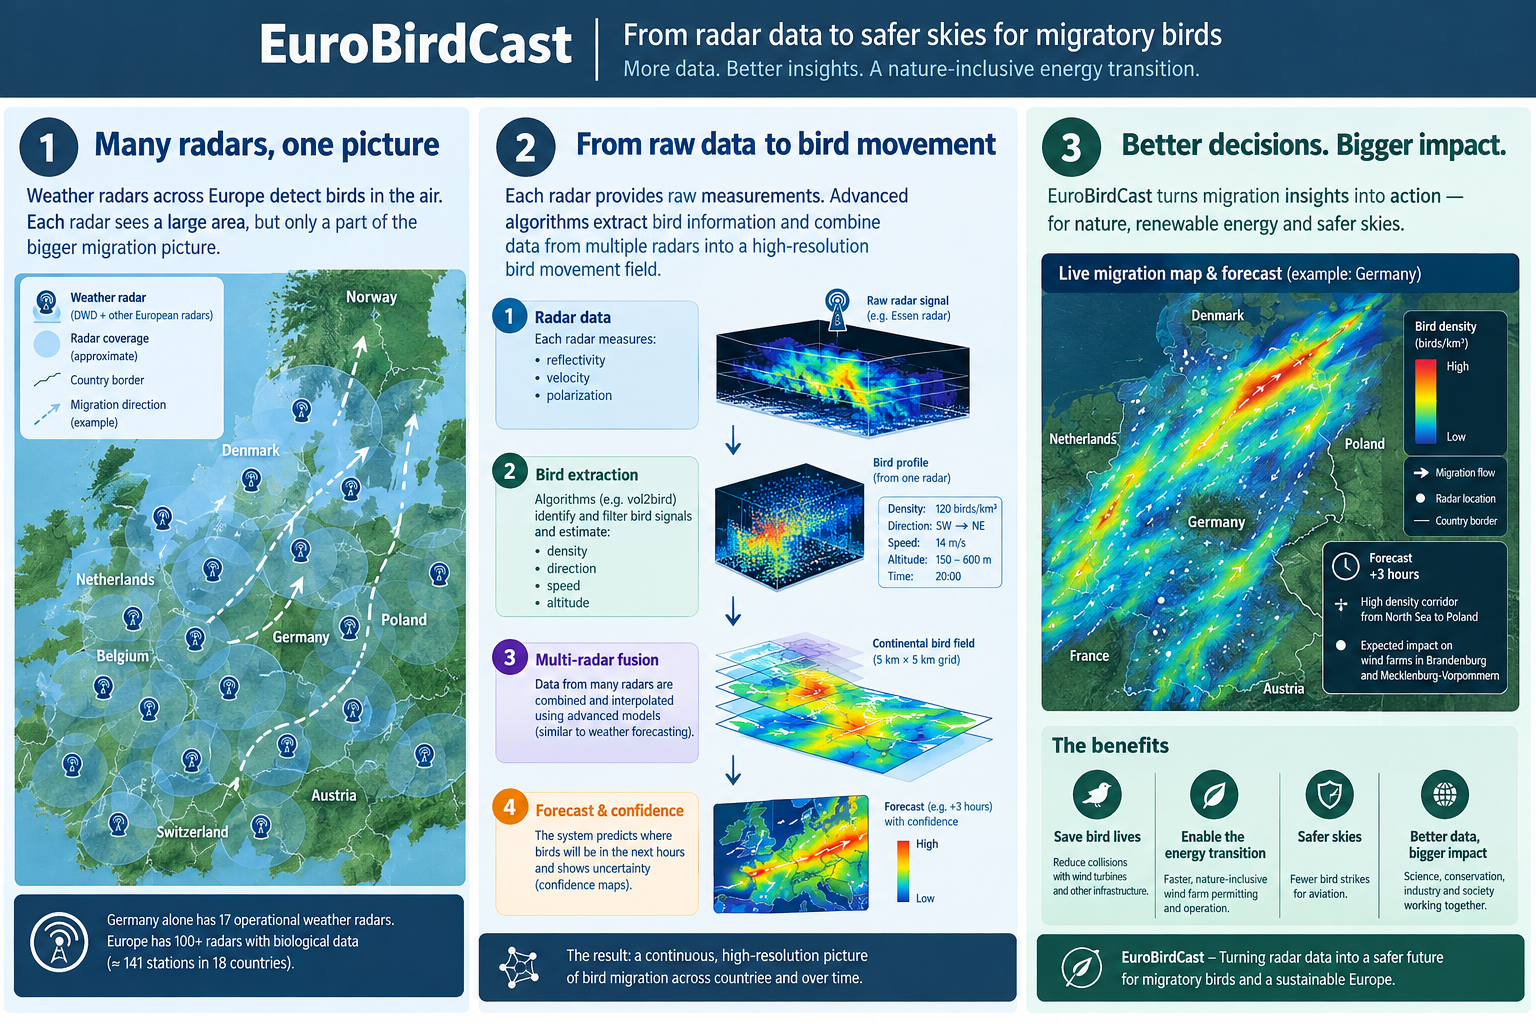
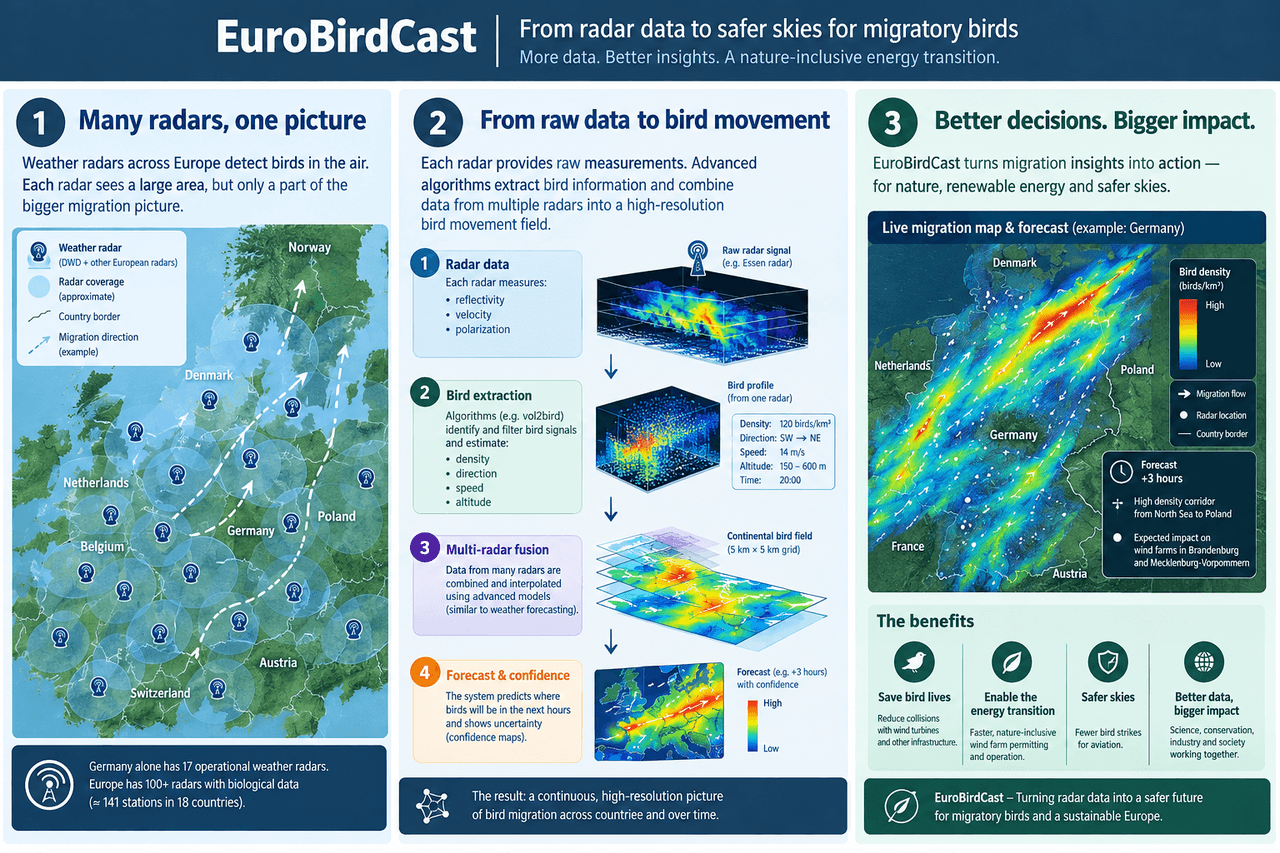
Dosenbilder: leeres img auf 33 Seiten weg, 2,33 MB auf 67 kB
Drei Sachen an der Bildeinbindung repariert, alle im Browser reproduziert
statt vermutet.

1. Das <img> stand ungeschützt im Markup. Auf 33 der 35 Dosen ist
   dose.image undefiniert — dort rendert der Browser ein leeres Bild
   samt Rahmen und Schatten, gemessen 306x26 Pixel. Jetzt nur noch,
   wenn es ein Bild gibt.
2. Ein Telefon lud 2,33 MB für ein Bild, das es mit 306 Pixeln Breite
   darstellt. Daneben liegen jetzt zwei WebP-Varianten (640/1280),
   erzeugt von scripts/prepare-dose-image.mjs; die Originale sind auf
   1280 Pixel geschrumpft und bleiben Fallback. Telefon lädt 67 kB.
3. watcher.jpg lag seit "added images" ungenutzt im Repo — Crack Flora
   Watcher hatte kein image. Zugeordnet.

Dazu zwei Felder: imageAlt, weil der Dosentitel kein alt-Text ist, und
imageAspect, das den Platz reserviert, damit beim Nachladen nichts
springt.

Die Breitenangabe hat drei Anläufe gebraucht, und jeder Fehler war
derselbe: sizes muss die Wirklichkeit beschreiben, nicht die Absicht.
100vw ist falsch, weil das Bild in einer Spalte mit Innenabstand steht;
calc(100vw - 4rem) war noch 20 Pixel zu großzügig und kippte mit
doppelter Pixeldichte über die 640er-Schwelle; und bei Hochformaten
deckelt ab etwa 392 Pixel Fensterbreite die Höhe die Breite, nicht die
Spalte — dafür min(). Ohne Netzwerk-Mitschnitt sieht man keinen davon,
die Seite sah jedes Mal richtig aus.

Hochformate sind außerdem auf 34rem Höhe gedeckelt: Das Watcher-Bild
[…]

diff --git a/src/data/dosen.ts b/src/data/dosen.ts
@@ -129,6 +129,8 @@ export const DOSEN_DATA: DoseItem[] = [
     title: 'EuroBirdCast',
     titleEn: 'EuroBirdCast: Auditable Migration Curtailment',
     image: 'eurobird.png',
+    imageAlt: 'Dreiteilige Infografik zu EuroBirdCast: links eine Karte der europäischen Wetterradare mit Abdeckungskreisen, in der Mitte der Weg vom Rohsignal über die Vogelextraktion zur Mehrradar-Fusion, rechts eine Zugdichtekarte über Deutschland mit Dreistundenprognose.',
+    imageAspect: 1.5,
     oneLinerDe: 'Aus bereits offen vorliegenden, wetterradarbasierten Vogelzugprofilen eine turbinenspezifische Abschaltempfehlung erzeugen, die eine Behörde ohne den Dienst selbst nachrechnen kann. Arbeitstitel — der Name kollidiert mit BirdCast (Cornell/CSU).',
     oneLinerEn: 'Turn already public, weather-radar-derived bird migration profiles into a turbine-specific curtailment recommendation a regulator can recompute without the service itself. Working title — the name collides with BirdCast (Cornell/CSU).',
     date: '22. September 2026 (nach Prüfung neu geschrieben)',
@@ -433,6 +435,9 @@ export const DOSEN_DATA: DoseItem[] = [
   },
   {
     id: 'crack-flora-watcher',
+    image: 'watcher.jpg',
+    imageAlt: 'Kartenansicht der App: Straßenkreuzung mit farbigen Pflanzen-Pins, ein geöffnetes Fenster zeigt Taraxacum officinale, Stufe 3 Phänologie, zuletzt bestätigt vor vier Stunden, dazu Reiter für Beobachten, Aktiv, Journal und Stadtliga.',
+    imageAspect: 0.558,
     title: 'Crack Flora Watcher (Ritzengrün)',
     oneLinerDe: 'Citizen-Science-App für Pflanzen, die Asphalt und Mauerrisse bezwingen — mit Toughness-Index, Zeitraffer-Tracking und direkter Forschungsbrücke zur Senckenberg #Krautschau.',
     oneLinerEn: 'A citizen science app turning sidewalks and asphalt cracks into a living scavenger hunt with a Toughness Index, time-lapse tracking, and direct research integration with #Krautschau & Flora Incognita.',
@@ -1378,6 +1383,8 @@ export const DOSEN_DATA: DoseItem[] = [
     id: 'fugenduell-asphalt-arena',
     title: 'Fugenduell: Asphaltritzen-Arena',
     image: 'fugenduel.jpg',
+    imageAlt: 'Querformat-Sammelkarte „Asplenium ruta-muraria — Frankfurt Hauptbahnhof": zwei Fotos einer Mauerraute in einer Bahnsteig-Mauerfuge, daneben Werteleisten, Fähigkeiten, Stammbaum und der Signature Move Austrocknungsstarre.',
+    imageAspect: 1.833,
     oneLinerDe: 'Asynchrones rundenbasiertes Ökologie-Taktikspiel für urbane Gehwegritzen — 14 reale Pionierarten, Grimes CSR-Dreieck, Pacht-Chronisten-Modell und transparenter 6-Runden-Saisonkampf.',
     oneLinerEn: 'An asynchronous turn-based botanical tactical battle game set in sidewalk cracks — 14 real-world pioneer species, Grimes CSR triangle, civic stewardship custody, and transparent 6-round seasonal combat.',
     date: 'September 2026',

diff --git a/src/components/DoseSinglePage.tsx b/src/components/DoseSinglePage.tsx
@@ -37,6 +37,7 @@ import { getBook } from '../data/doseBooks';
 import { DoseBook } from './DoseBook';
 import { getBookChapterUrl, parseBookSlugFromUrl } from '../utils/doseUrl';
 import { getRepoFileUrl } from '../utils/bookSources';
+import { doseImageSrc, doseImageSrcSet, doseImageSizes } from '../utils/doseImage';
 import {
   AltbauThermalSimulator,
   GlasanflugSimulator,
@@ -409,8 +410,31 @@ ${bookChapters
           <h1 className="text-3xl sm:text-4xl md:text-5xl font-bold font-amelie text-[#2b1e16] tracking-tight leading-tight">
             {localizedTitle}
           </h1>
-          {/* Image */}
-          <img src={dose.image} alt={localizedTitle} className="rounded-2xl border border-[#d8cbba] shadow-xs" /> 
+          {/* Bild zur Dose — nur wenn es eins gibt, sonst stand hier auf 33 von
+              35 Seiten ein leeres <img> mit Rahmen und Schatten. */}
+          {dose.image && (
+            <figure className="space-y-2">
+              <picture>
+                <source
+                  type="image/webp"
+                  srcSet={doseImageSrcSet(dose.image)}
+                  sizes={doseImageSizes(dose.imageAspect)}
+                />
+                <img
+                  src={doseImageSrc(dose.image)}
+                  alt={dose.imageAlt || localizedTitle}
+                  loading="lazy"
+                  decoding="async"
+                  style={
+                    dose.imageAspect
+                      ? { aspectRatio: String(dose.imageAspect), maxHeight: 'min(70vh, 34rem)' }
+                      : { maxHeight: 'min(70vh, 34rem)' }
+                  }
+                  className="mx-auto h-auto w-auto max-w-full rounded-2xl border border-[#d8cbba] shadow-xs bg-[#faf5eb]"
+                />
+              </picture>
+            </figure>
+          )}
 
           {/* Poetic One-Liner Box */}
           <div className="p-5 sm:p-6 rounded-2xl bg-[#fffdf9]/90 border border-[#d8cbba] text-[#3b2a1c] font-amelie text-lg sm:text-xl md:text-2xl italic leading-relaxed shadow-xs">

diff --git a/src/utils/doseImage.ts b/src/utils/doseImage.ts
@@ -1,0 +1,47 @@
+/**
+ * Quellen für das Bild einer Dose.
+ *
+ * Die Dose nennt nur den Dateinamen (image: 'eurobird.png'). Daneben liegen
+ * zwei WebP-Varianten, erzeugt von scripts/prepare-dose-image.mjs. Der
+ * Browser wählt über srcset und sizes; das Original bleibt Fallback.
+ *
+ * Die Basis-URL muss mit: Auf GitHub Pages liegt die Seite unter /Amelie/,
+ * und ein blanker relativer Pfad bricht, sobald die Seite je unter einem
+ * tieferen Pfad ausgeliefert wird.
+ */
+
+function base(): string {
+  const b = import.meta.env.BASE_URL || '/';
+  return b.endsWith('/') ? b : `${b}/`;
+}
+
+export function doseImageSrc(datei: string): string {
+  return `${base()}${datei.replace(/^\/+/, '')}`;
+}
+
+export function doseImageSrcSet(datei: string): string {
+  const stamm = datei.replace(/^\/+/, '').replace(/\.(png|jpe?g|webp)$/i, '');
+  return `${base()}${stamm}-640.webp 640w, ${base()}${stamm}-1280.webp 1280w`;
+}
+
+/**
+ * Das Bild steht in der Kopfspalte der Dose, nicht über die volle Fensterbreite.
+ * Stünde hier 100vw, lüde ein Telefon mit doppelter Pixeldichte die große
+ * Variante — genau das, was die Varianten verhindern sollen.
+ *
+ * Bei Hochformaten deckelt die Höhe (34rem) die Breite, nicht die Spalte:
+ * ein 0,558er Bild ist dann rund 300 Pixel breit, gleich wie groß das Fenster
+ * ist. Ohne diesen Fall lädt ein Desktop die 1280er Datei für 304 Pixel.
+ */
+export function doseImageSizes(aspect?: number): string {
+  if (aspect && aspect < 1) {
+    // Ab rund 392 Pixel Fensterbreite deckelt die Höhe, darunter die Spalte.
+    // min() bildet beides ab, statt an einer Bruchstelle falsch zu raten.
+    const breite = Math.ceil(544 * aspect) + 8;
+    return `min(calc(100vw - 5.5rem), ${breite}px)`;
+  }
+  return '(max-width: 768px) calc(100vw - 5.5rem), (max-width: 1280px) calc(100vw - 12rem), 900px';
+}
+
+/** Fallback für Bilder ohne bekanntes Seitenverhältnis */
+export const DOSE_IMAGE_SIZES = doseImageSizes();

diff --git a/src/types.ts b/src/types.ts
@@ -12,7 +12,12 @@ export interface DoseItem {
   titleKey?: string;
   titleEn?: string;
   titleEs?: string;
+  /** Dateiname in public/, z. B. 'eurobird.png'. Varianten daneben: scripts/prepare-dose-image.mjs */
   image?: string;
+  /** Was auf dem Bild zu sehen ist — für Screenreader und wenn das Bild nicht lädt */
+  imageAlt?: string;
+  /** Breite geteilt durch Höhe. Reserviert den Platz, damit beim Nachladen nichts springt. */
+  imageAspect?: number;
   oneLinerDe: string;
   oneLinerEn: string;
   oneLinerEs?: string;
